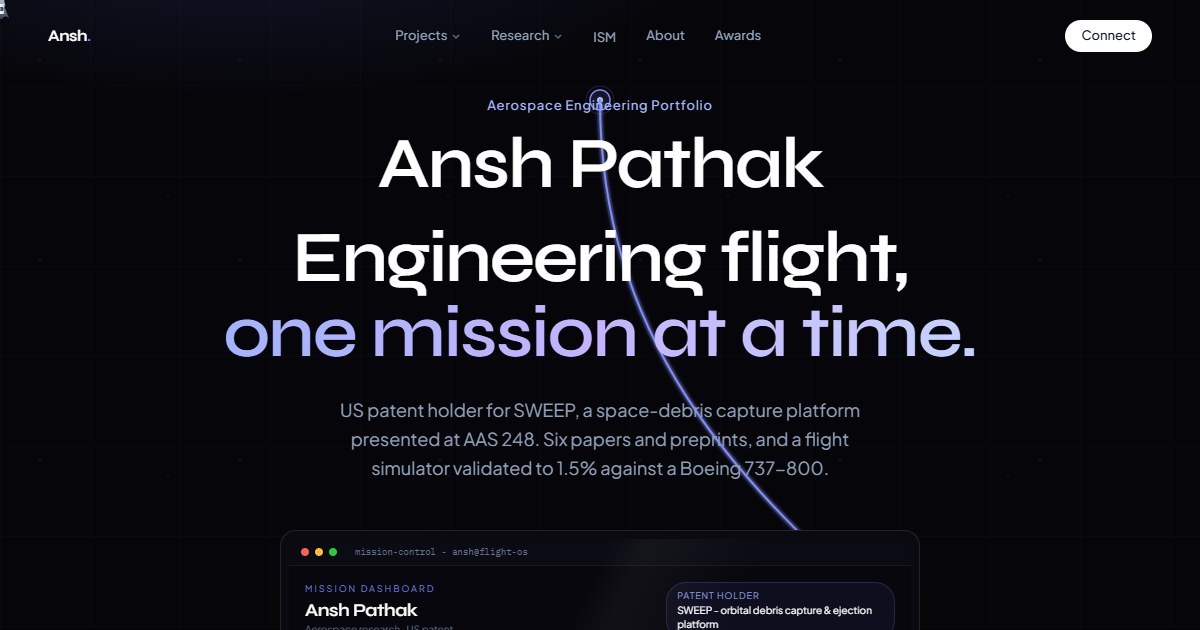
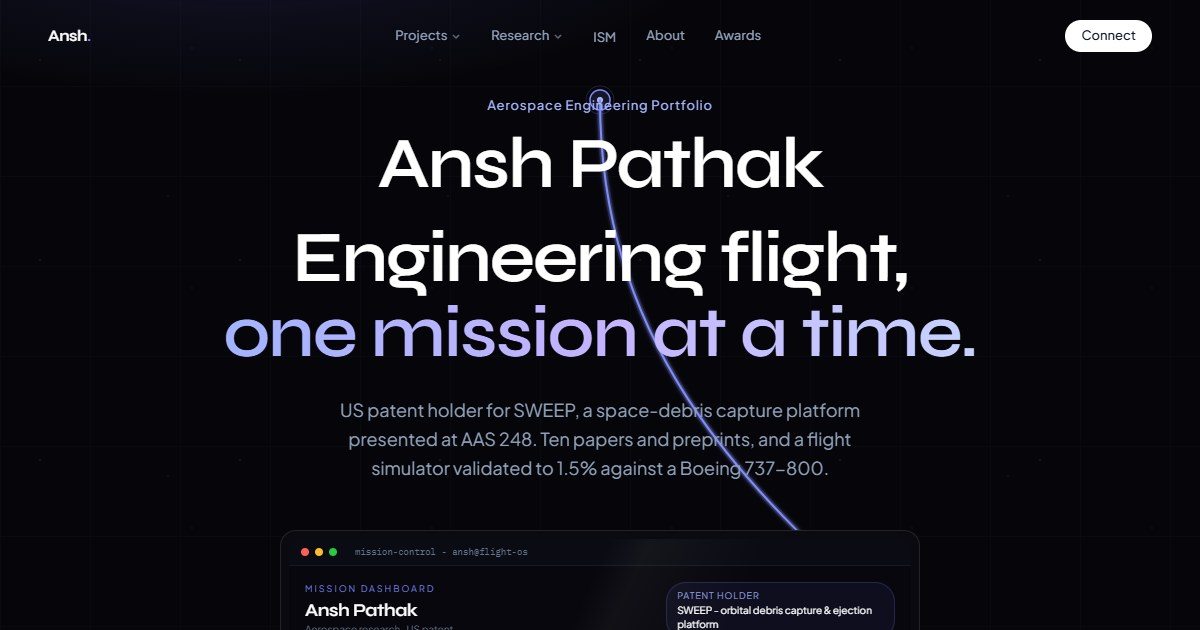
Update every remaining reference to the research count and titles
The paper count moved from six to ten when the four new showcases landed;
this catches everything still saying six: the homepage meta description,
og:description, twitter:description and both og/twitter image alts in
index.html, the 404 page's research card, and the two code comments that
counted scenes. Adds condensed nav labels for the four new entries so the
Research dropdowns stop falling back to full paper titles, and regenerates
og.jpg from the rebuilt landing screen so the share card shows ten.

Changed region(s): [[0.2775, 0.6635, 0.7092, 0.7238], [0.0, 0.0, 0.0308, 0.0302]]

diff --git a/index.html b/index.html
@@ -7,7 +7,7 @@
     <meta name="theme-color" content="#06060a" />
     <meta name="viewport" content="width=device-width, initial-scale=1.0" />
     <title>Ansh Pathak - Aerospace research &amp; US patent</title>
-    <meta name="description" content="US patent holder for SWEEP, a space-debris capture platform presented at AAS 248. Six papers and preprints, and a flight simulator validated to 1.5% against a Boeing 737-800." />
+    <meta name="description" content="US patent holder for SWEEP, a space-debris capture platform presented at AAS 248. Ten papers and preprints, and a flight simulator validated to 1.5% against a Boeing 737-800." />
     <meta name="author" content="Ansh Pathak" />
     <meta name="robots" content="index, follow, max-image-preview:large" />
     <link rel="canonical" href="https://www.anshpathak.us/" />
@@ -16,18 +16,18 @@
     <meta property="og:site_name" content="Ansh Pathak" />
     <meta property="og:url" content="https://www.anshpathak.us/" />
     <meta property="og:title" content="Ansh Pathak - Aerospace research &amp; US patent" />
-    <meta property="og:description" content="US patent holder for SWEEP, a space-debris capture platform presented at AAS 248. Six papers and preprints, and a flight simulator validated to 1.5% against a Boeing 737-800." />
+    <meta property="og:description" content="US patent holder for SWEEP, a space-debris capture platform presented at AAS 248. Ten papers and preprints, and a flight simulator validated to 1.5% against a Boeing 737-800." />
     <meta property="og:image" content="https://www.anshpathak.us/og.jpg" />
     <meta property="og:image:width" content="1200" />
     <meta property="og:image:height" content="630" />
-    <meta property="og:image:alt" content="Mission console listing Ansh Pathak's US patent, six research papers, and competition results" />
+    <meta property="og:image:alt" content="Mission console listing Ansh Pathak's US patent, ten research papers, and competition results" />
     <meta property="og:locale" content="en_US" />
 
     <meta name="twitter:card" content="summary_large_image" />
     <meta name="twitter:title" content="Ansh Pathak - Aerospace research &amp; US patent" />
-    <meta name="twitter:description" content="US patent holder for SWEEP, a space-debris capture platform presented at AAS 248. Six papers and preprints, and a flight simulator validated to 1.5% against a Boeing 737-800." />
+    <meta name="twitter:description" content="US patent holder for SWEEP, a space-debris capture platform presented at AAS 248. Ten papers and preprints, and a flight simulator validated to 1.5% against a Boeing 737-800." />
     <meta name="twitter:image" content="https://www.anshpathak.us/og.jpg" />
-    <meta name="twitter:image:alt" content="Mission console listing Ansh Pathak's US patent, six research papers, and competition results" />
+    <meta name="twitter:image:alt" content="Mission console listing Ansh Pathak's US patent, ten research papers, and competition results" />
 
     <link rel="preconnect" href="https://fonts.googleapis.com" />
     <link rel="preconnect" href="https://fonts.gstatic.com" crossorigin />

diff --git a/src/sections/ResearchSection.tsx b/src/sections/ResearchSection.tsx
@@ -593,7 +593,7 @@ export function ResearchSection() {
    *
    * Measured before this: zero chunk requests were made until the research
    * section came into view, at which point three.js, react-three-fiber and all
-   * six scenes were fetched and parsed at once - roughly a megabyte landing
+   * ten scenes were fetched and parsed at once - roughly a megabyte landing
    * exactly when the visitor expected to see something. requestIdleCallback
    * means this never competes with the intro animation, and the homepage is
    * long enough that the fetch has finished well before anyone scrolls down.

diff --git a/src/lib/revealMotion.ts b/src/lib/revealMotion.ts
@@ -36,7 +36,7 @@ export const HEADING_EASE = [0.33, 1, 0.68, 1] as const
 /**
  * The default reveal: opacity and translate only, deliberately blur-free.
  *
- * This same reveal wraps six live WebGL canvases. A CSS `filter: blur()` on an
+ * This same reveal wraps ten live WebGL canvases. A CSS `filter: blur()` on an
  * element containing a canvas forces the whole subtree through an offscreen
  * composite - and it was doing so on exactly the frames those canvases start
  * rendering. Translate and opacity stay on the compositor.

diff --git a/src/components/layout/SiteNav.tsx b/src/components/layout/SiteNav.tsx
@@ -27,6 +27,10 @@ const RESEARCH_NAV_LABELS: Record<string, string> = {
   'research-qcin': 'Hybrid quantum–classical inertial navigation',
   'research-sailnko': 'Solar-sail non-Keplerian orbits',
   'research-transition': 'Boundary-layer transition prediction',
+  'research-nozzlemoc': 'Supersonic nozzle design',
+  'research-eilj2': 'Spacecraft formation-keeping',
+  'research-bli': 'Boundary-layer ingestion benefit',
+  'research-rde': 'Rotating detonation engines',
 }
 
 const DROPDOWN_ITEM =

diff --git a/src/components/layout/MobileNav.tsx b/src/components/layout/MobileNav.tsx
@@ -17,6 +17,10 @@ const RESEARCH_NAV_LABELS: Record<string, string> = {
   'research-qcin': 'Hybrid quantum–classical inertial navigation',
   'research-sailnko': 'Solar-sail non-Keplerian orbits',
   'research-transition': 'Boundary-layer transition prediction',
+  'research-nozzlemoc': 'Supersonic nozzle design',
+  'research-eilj2': 'Spacecraft formation-keeping',
+  'research-bli': 'Boundary-layer ingestion benefit',
+  'research-rde': 'Rotating detonation engines',
 }
 
 const FOCUSABLE =

diff --git a/src/pages/NotFoundPage.tsx b/src/pages/NotFoundPage.tsx
@@ -13,7 +13,7 @@ const DESTINATIONS = [
     to: '/#research',
     label: 'Research',
     description:
-      'Papers across orbital debris mitigation, morphing airfoils, and hybrid quantum–classical navigation.',
+      'Ten papers and preprints, from orbital debris mitigation and morphing airfoils to supersonic nozzles and rotating detonation engines.',
   },
   {
     to: '/ism',
